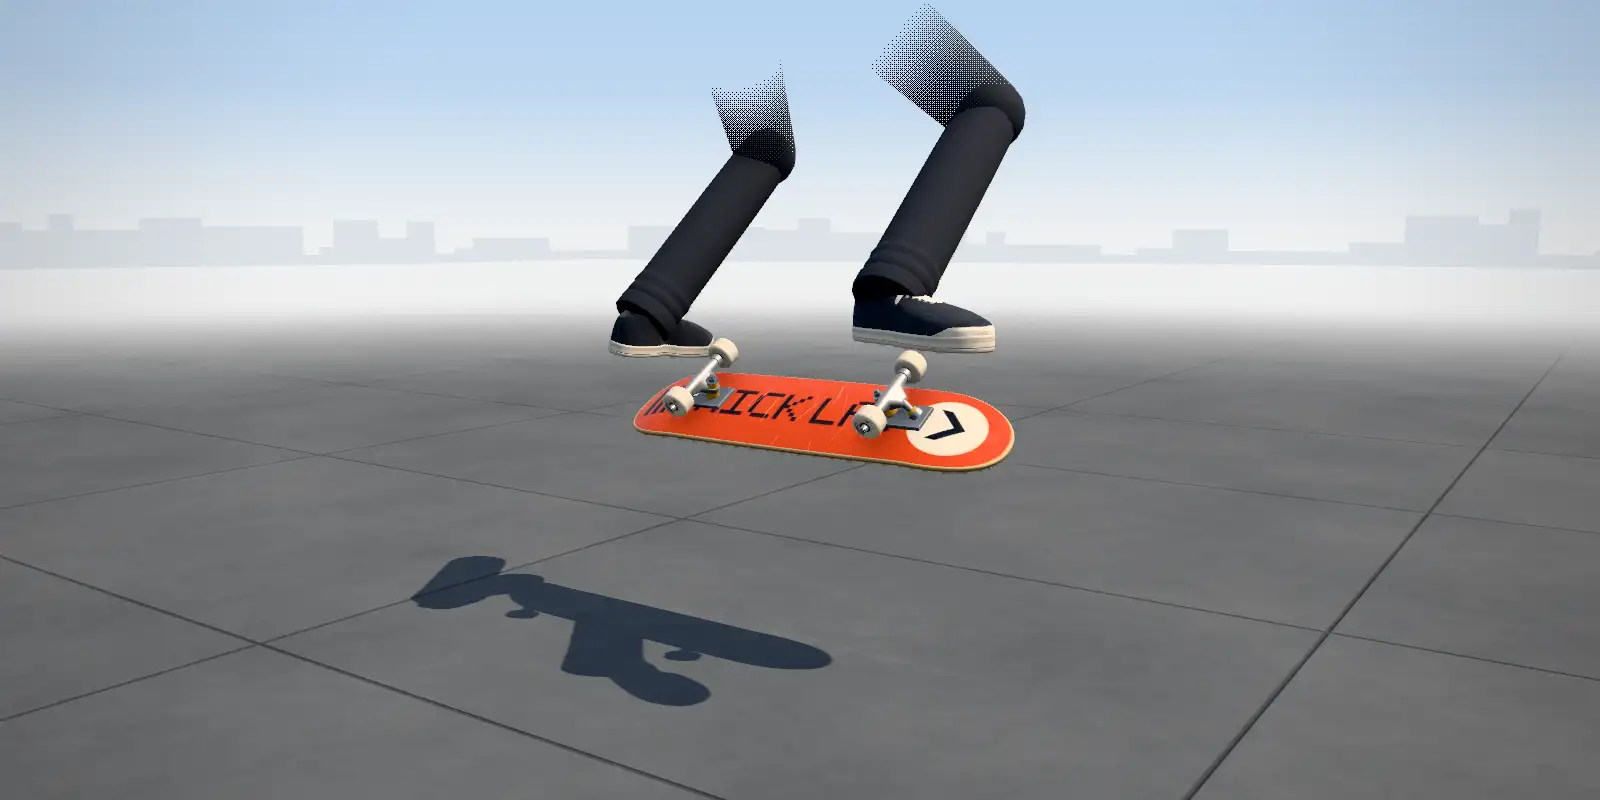
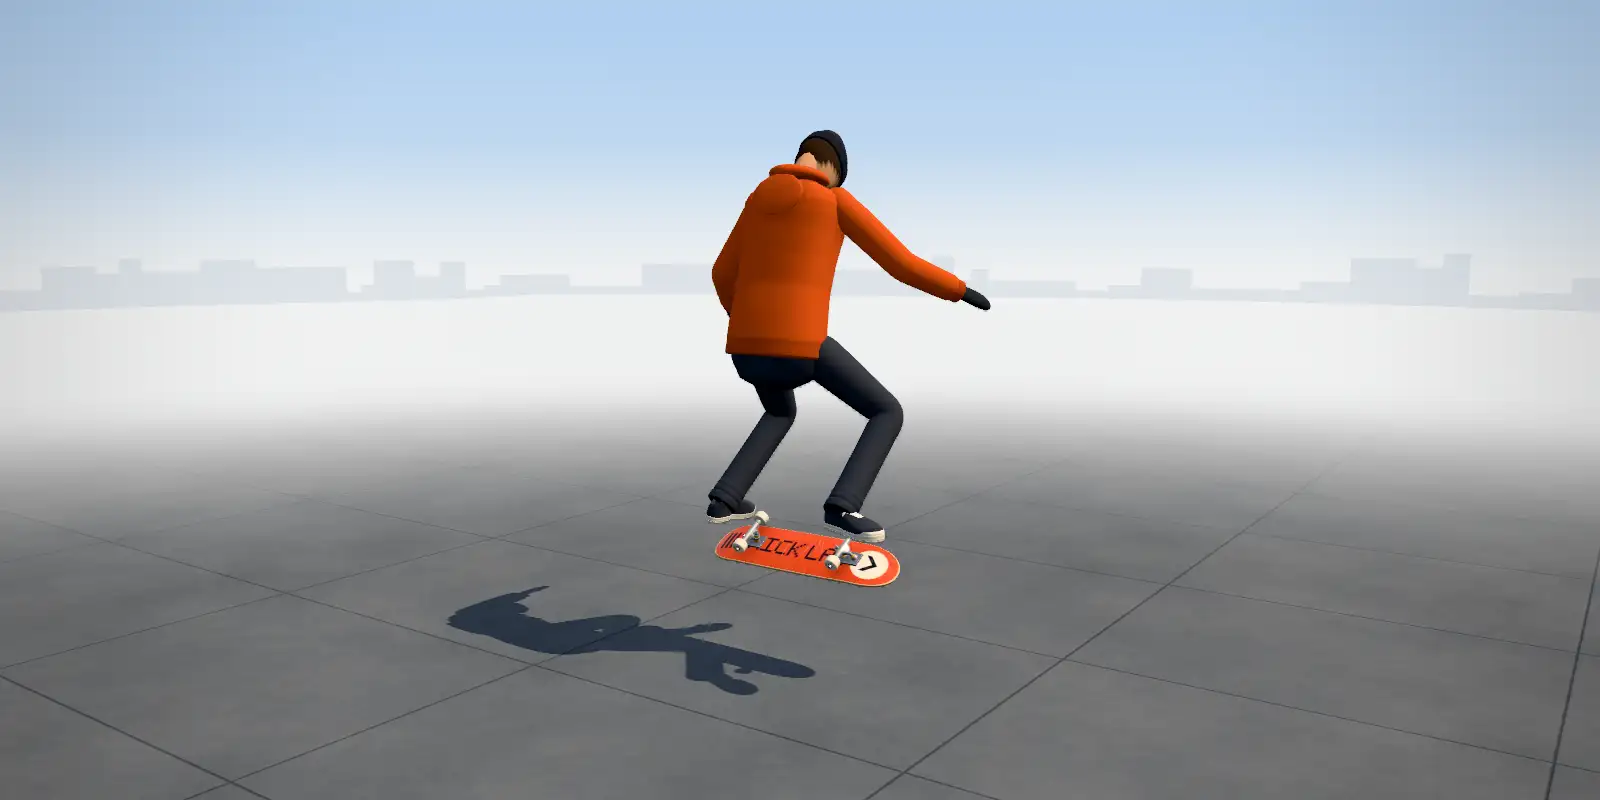
The loading pictures with the whole rider (ADR-85)
public/stills/welcome-*.webp rebuilt from the real scene per
ASSET-PIPELINE.md: 18.2 KB light, 17.9 KB dark (were 26.4 and 26.5).
capture.js now also waits for the rider's mesh, named Rider_Body in the
scene (riderPose.ts), so a picture never shows the legs standing in.

diff --git a/src/scene/riderPose.test.ts b/src/scene/riderPose.test.ts
@@ -18,7 +18,7 @@ import { computeFlight } from '../sim/flight';
 import { newLegsPose, writeLegsPose } from '../sim/legs';
 import { presetById } from '../sim/tricks';
 import { ART } from './artDirection';
-import { applyBody, makeRiderRig } from './riderPose';
+import { applyBody, makeRiderRig, RIDER_MESH_NAME } from './riderPose';
 
 async function loadRider(): Promise<SkinnedMesh> {
   const file = readFileSync(resolve(__dirname, '../../public', RIDER_GLB));
@@ -48,9 +48,11 @@ const skinned = (mesh: SkinnedMesh, i: number) =>
   mesh.applyBoneTransform(i, new Vector3().fromBufferAttribute(mesh.geometry.getAttribute('position'), i)).applyMatrix4(mesh.matrixWorld);
 
 describe('the rider in the scene (ADR-85)', () => {
-  it('reads the 17 bones from rider.glb in RIDER_BONES order', async () => {
+  it('reads the 17 bones from rider.glb in RIDER_BONES order, and names the mesh the stills capture waits for', async () => {
     const source = await loadRider();
     expect(source.skeleton.bones.map((b) => b.name)).toEqual([...RIDER_BONES]);
+    expect(makeRiderRig(source, new MeshBasicMaterial()).mesh.name).toBe(RIDER_MESH_NAME);
+    expect(readFileSync(resolve(__dirname, '../../scripts/still/capture.js'), 'utf8')).toContain(`'${RIDER_MESH_NAME}'`);
   });
 
   it('in the bind pose leaves every vertex where rider.ts built it, standing on the deck at rest', async () => {

diff --git a/scripts/still/capture.js b/scripts/still/capture.js
@@ -16,8 +16,8 @@
 // What it draws: the welcome screen on High at the picture's size, the stage
 // alone filling the window (the rest of the page hidden), under reduced
 // motion, so the preview holds its still pose (SHOWCASE_STILL) instead of
-// looping; feet and legs on (the defaults on High since ADR-70). It waits until the lit scene
-// shows every High model, lets a few more frames draw, screenshots the
+// looping; feet and the rider on (the defaults on High since ADR-70; the whole rider since ADR-85).
+// It waits until the lit scene shows every High model and the rider, lets a few more frames draw, screenshots the
 // canvas, and has the browser encode the WebP (no encoder to install).
 // Nothing here changes the app; the page's storage is set per theme.
 async (page) => {
@@ -27,7 +27,8 @@ async (page) => {
   const quality = Number(opts.get('q') ?? 0.6);
   const base = opts.get('base') ?? '/';
   const origin = new URL(page.url()).origin;
-  const MODELS = ['Deck_Grip', 'Shoe_Sole', 'Ground_Concrete'];
+  // The board, the shoes, the ground and the whole rider (ADR-85, src/scene/riderPose.ts RIDER_MESH_NAME).
+  const MODELS = ['Deck_Grip', 'Shoe_Sole', 'Ground_Concrete', 'Rider_Body'];
 
   await page.emulateMedia({ reducedMotion: 'reduce' });
   await page.setViewportSize({ width, height });

diff --git a/src/scene/riderPose.ts b/src/scene/riderPose.ts
@@ -7,6 +7,9 @@ import { ART } from './artDirection';
 
 const REST_Y = ART.board.restY;
 
+/** The rider's mesh in the scene graph (the GLB's node is `Body`). */
+export const RIDER_MESH_NAME = 'Rider_Body';
+
 /**
  * Each bone, in RIDER_BONES order, at its frame: the pose is in the board's
  * rest frame (y up from the deck at rest) and the bones are siblings in the
@@ -42,6 +45,8 @@ export function makeRiderRig(source: SkinnedMesh, material: Material) {
     source.skeleton.boneInverses.map((m) => m.clone()),
   );
   const mesh = new SkinnedMesh(source.geometry, material);
+  // Named so a browser script can tell the rider is in (scripts/still/capture.js).
+  mesh.name = RIDER_MESH_NAME;
   mesh.bind(skeleton, source.bindMatrix.clone());
   // The skinned bounds would be the bind pose's; the rider moves, so never cull it.
   mesh.frustumCulled = false;

diff --git a/docs/ASSET-PIPELINE.md b/docs/ASSET-PIPELINE.md
@@ -176,7 +176,7 @@ playwright-cli -s=still close
 npx tsx scripts/still/write.ts stills.json
 ```
 
-`capture.js` renders the welcome screen on High, the stage alone at 1600 x 800, under reduced motion (the preview holds its still pose), waits for every High model, screenshots the canvas and has the browser encode the WebP at 0.6 (0.8 until 2026-11-10, ADR-70). `write.ts` checks each file against `src/asset/stillSpec.ts` (WebP, 1600 x 800, at most 80 KB) and writes nothing if one fails. `npm run assets:check` prints a line per still and fails on the same checks. The files are not byte-deterministic (a GPU render); review a change by looking at them.
+`capture.js` renders the welcome screen on High, the stage alone at 1600 x 800, under reduced motion (the preview holds its still pose), waits for every High model, screenshots the canvas and has the browser encode the WebP at 0.6 (0.8 until 2026-11-10, ADR-70). `write.ts` checks each file against `src/asset/stillSpec.ts` (WebP, 1600 x 800, at most 80 KB) and writes nothing if one fails. `npm run assets:check` prints a line per still and fails on the same checks. The files are not byte-deterministic (a GPU render); review a change by looking at them. Rebuilt 2026-11-11 with the whole rider (ADR-85): `capture.js` also waits for the rider's mesh (`Rider_Body`); 18.2 KB light and 17.9 KB dark.
 
 ## The skate spot (2026-11-10, ADR-69)
 
